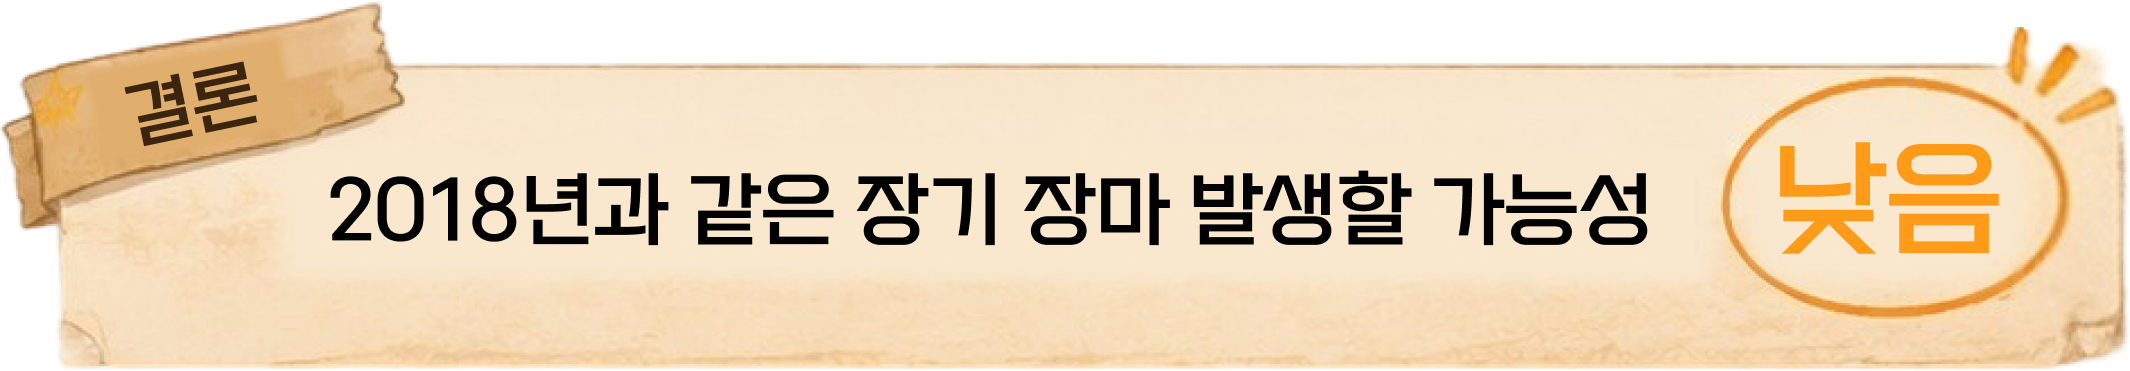
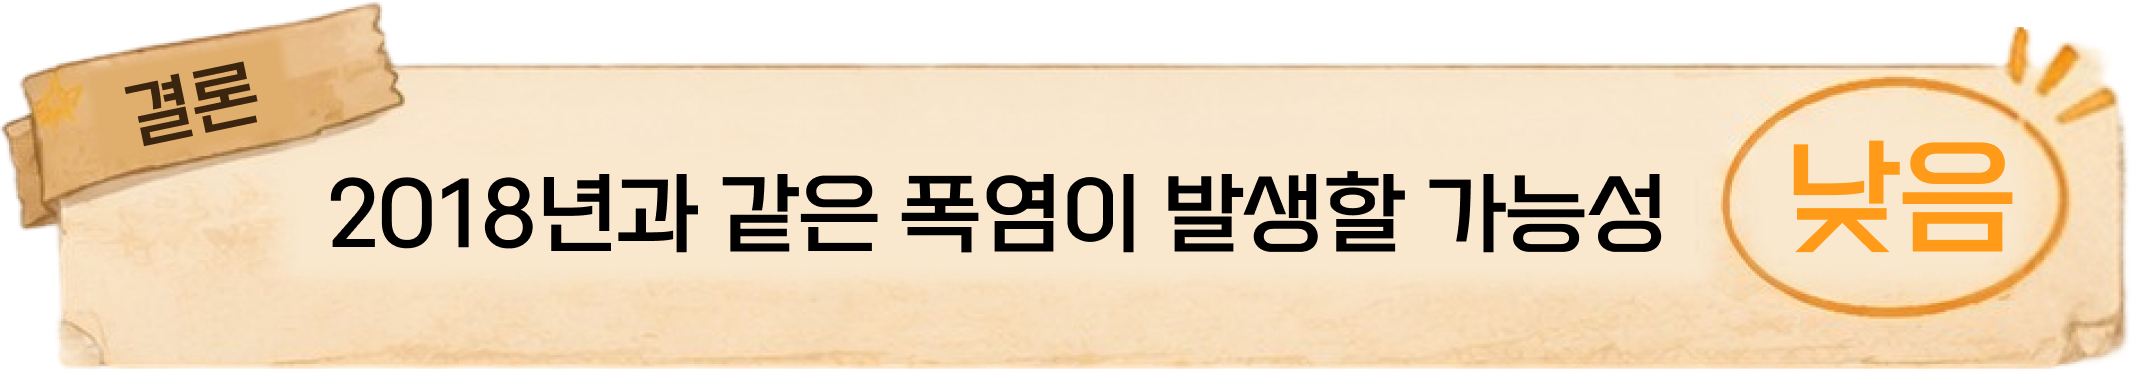
Use 2-star rating for the 2018 case and update its conclusion ribbon art

Changed region(s): [[0.1549, 0.4447, 0.8056, 0.6819], [0.8366, 0.3854, 0.9606, 0.6819]]

diff --git a/frontend/src/CaseSelectScreen.jsx b/frontend/src/CaseSelectScreen.jsx
@@ -2,6 +2,7 @@ import file2020 from './assets/2020_file.png'
 import file2018 from './assets/2018_file.png'
 import file2022 from './assets/2022_file.png'
 import background from './assets/file_bg.png'
+import star2 from './assets/star2.png'
 import star3 from './assets/star3.png'
 import './Stage.css'
 import './CaseSelectScreen.css'
@@ -10,7 +11,7 @@ const STAR_COLORS = ['#368F39', '#DB9D00', '#6F839F', '#368F39', '#DB9D00']
 
 const CASES = [
   { id: '2020', image: file2020, alt: '2020 역대 최장 장마 사건', starImage: star3 },
-  { id: '2018', image: file2018, alt: '2018 기록적 폭염 사건' },
+  { id: '2018', image: file2018, alt: '2018 기록적 폭염 사건', starImage: star2 },
   { id: '2022', image: file2022, alt: '2022 수도권 집중호우 사건' },
 ]
 
